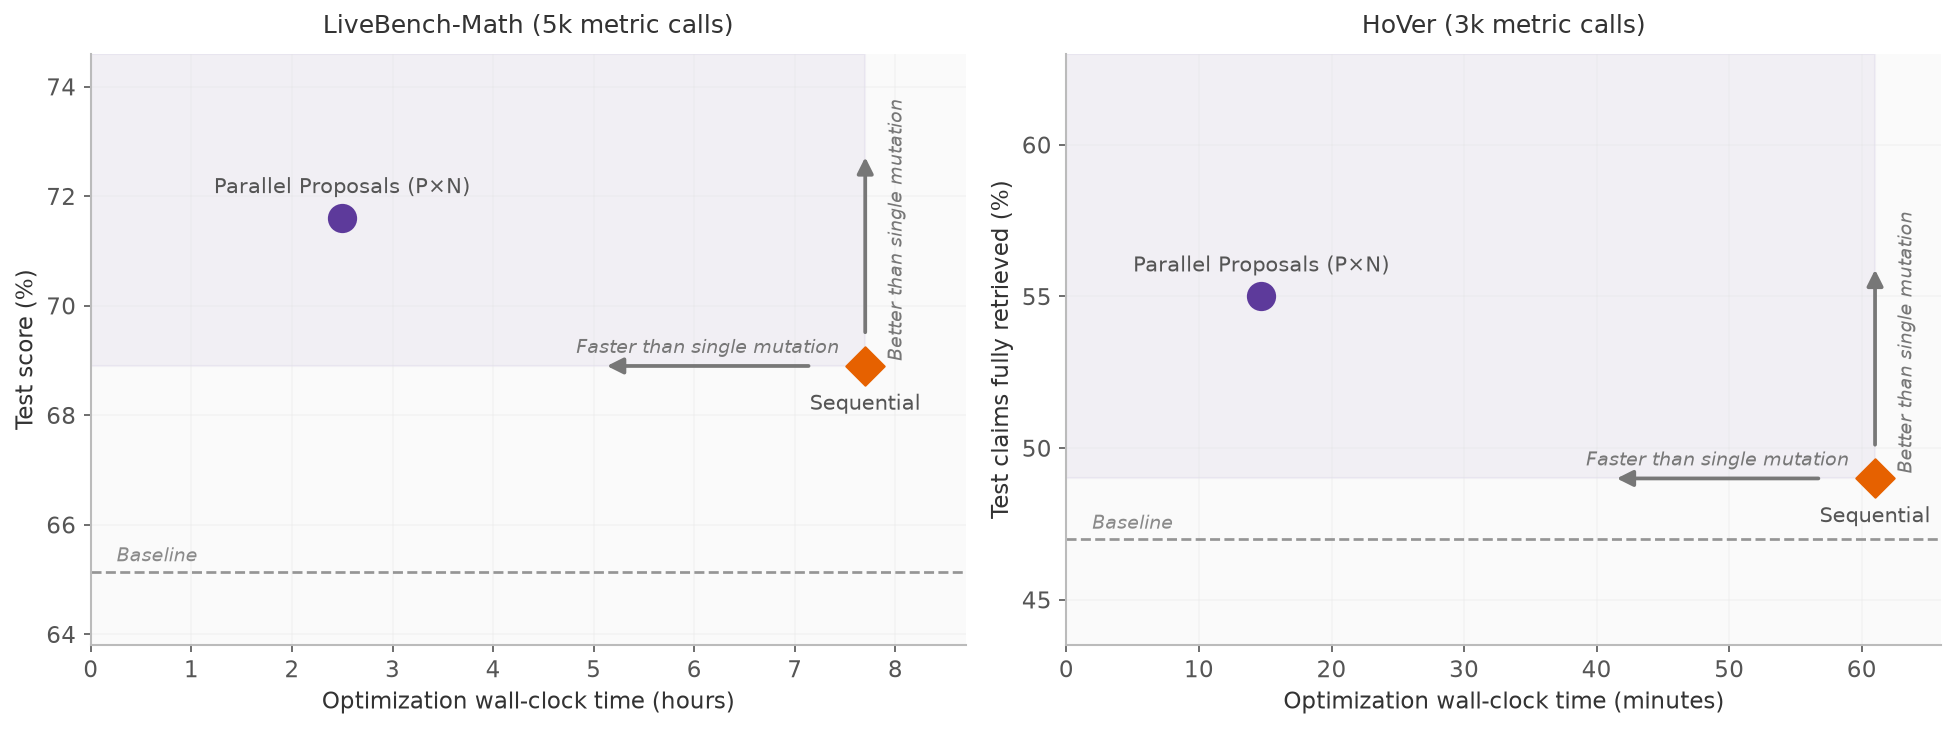
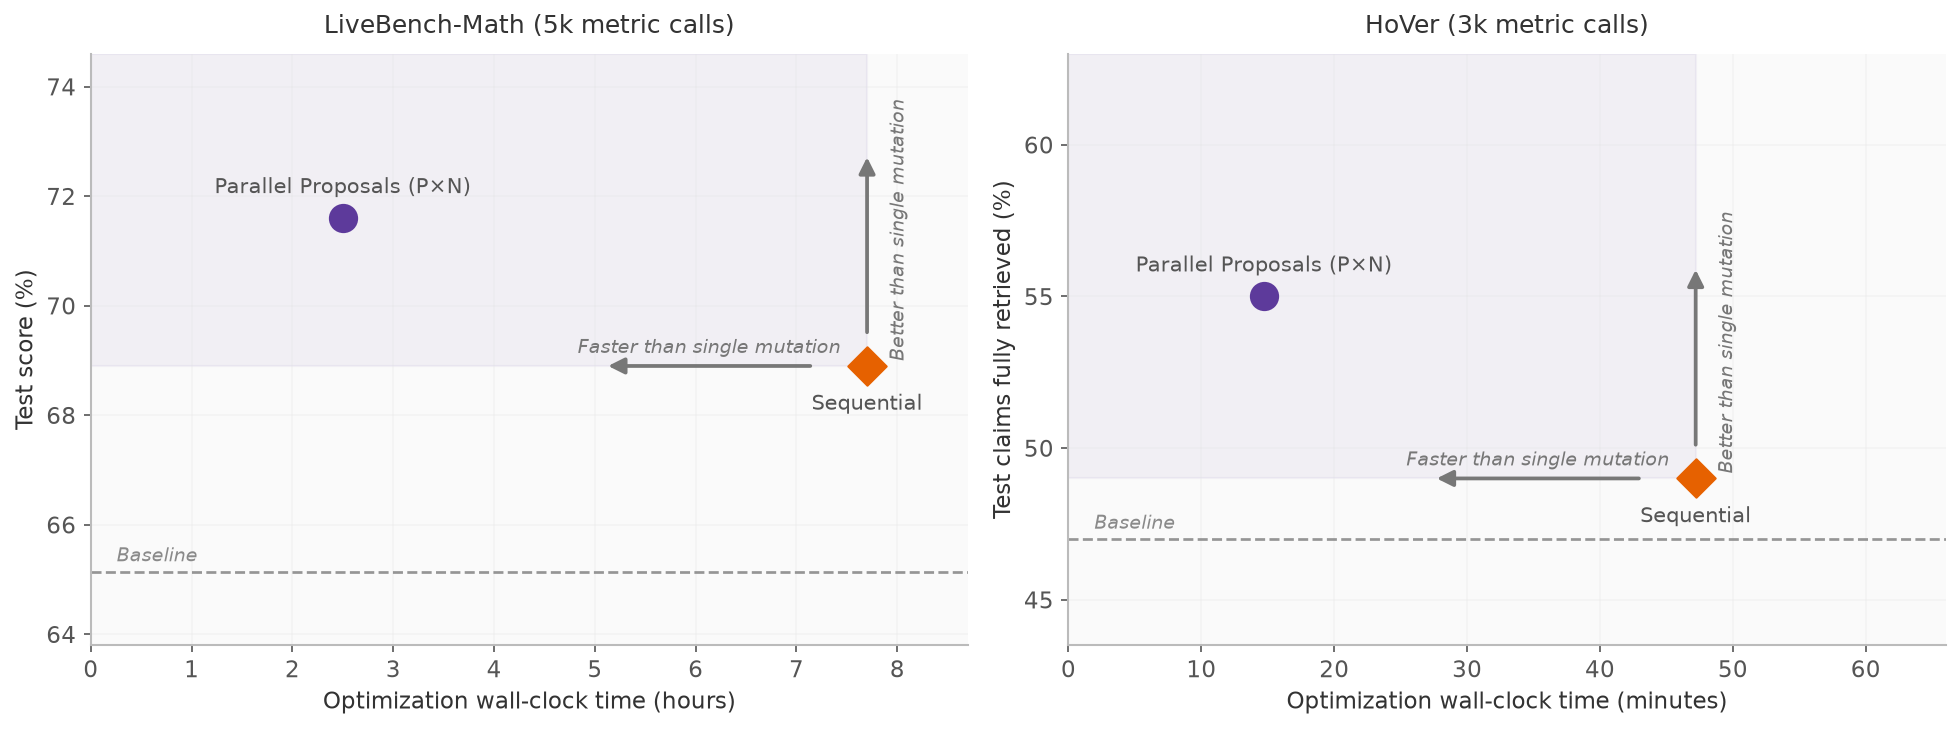
docs(blog): use the latest HoVer single-mutation run's runtime (47 min)

diff --git a/docs/docs/blog/posts/2026-06-22-parallel-proposals/index.md b/docs/docs/blog/posts/2026-06-22-parallel-proposals/index.md
@@ -26,7 +26,7 @@ citation_keywords: "text optimization, prompt optimization, program optimization
 # Batching the Optimization Loop: Parallel Proposals in GEPA
 
 <figure markdown="span">
-  ![Two scatter plots of held-out test performance against optimization wall-clock time. In each, a purple dot labeled Parallel Proposals (P×N) sits above and left of an orange diamond labeled Sequential, inside a shaded region of results that are both faster and better; a dashed line marks the unoptimized baseline, and two arrows from the diamond point up (Better than single mutation) and left (Faster than single mutation). LiveBench-Math: 71.6% in 2.5 hours against 68.9% in 7.7 hours. HoVer: 55.0% in 15 minutes against 49.0% in 61 minutes.](images/throughput.png){ style="width: 100%;" }
+  ![Two scatter plots of held-out test performance against optimization wall-clock time. In each, a purple dot labeled Parallel Proposals (P×N) sits above and left of an orange diamond labeled Sequential, inside a shaded region of results that are both faster and better; a dashed line marks the unoptimized baseline, and two arrows from the diamond point up (Better than single mutation) and left (Faster than single mutation). LiveBench-Math: 71.6% in 2.5 hours against 68.9% in 7.7 hours. HoVer: 55.0% in 15 minutes against 49.0% in 47 minutes.](images/throughput.png){ style="width: 100%;" }
   <figcaption>At the same metric-call budget, parallel proposals are faster and better than single mutation.</figcaption>
 </figure>
 
@@ -83,7 +83,7 @@ The measured runs follow this pattern. On LiveBench-Math, moving from single mut
 Two additional effects keep the speedup from scaling indefinitely with $k$. First, the reflection wave takes as long as its slowest concurrent call. Second, validating several accepted candidates at once takes longer on a fixed worker pool. In parallel-computing terms, our sweep is a strong-scaling experiment[^scaling]: the total work is fixed by the metric-call budget while the per-step parallelism grows, so the speedup is bounded by the parts of each step that stay sequential, in the spirit of Amdahl's law. In our measured setup, wall-clock time across the sweep improved by roughly 3 to 4× over single mutation before leveling off.
 
 <figure markdown="span">
-  ![Two dual-axis line charts across the nine settings from single to 8×2: an orange line with held-out test performance on the left axis, a purple line with optimization time on the right axis, and a dotted baseline. Time falls from 7.7 hours to about 2 on LiveBench-Math and from 61 to 14 minutes on HoVer, while test performance ranges from 66.7 to 72.1 on LiveBench-Math and from 49.0 to 60.0 on HoVer against single mutation's 68.9 and 49.0.](images/scaling_lines.png){ style="width: 100%;" }
+  ![Two dual-axis line charts across the nine settings from single to 8×2: an orange line with held-out test performance on the left axis, a purple line with optimization time on the right axis, and a dotted baseline. Time falls from 7.7 hours to about 2 on LiveBench-Math and from 47 to 14 minutes on HoVer, while test performance ranges from 66.7 to 72.1 on LiveBench-Math and from 49.0 to 60.0 on HoVer against single mutation's 68.9 and 49.0.](images/scaling_lines.png){ style="width: 100%;" }
   <figcaption>As the per-step width P·N scales up, runtime falls with diminishing returns, and several settings score higher than single mutation.</figcaption>
 </figure>
 
@@ -96,8 +96,8 @@ The validation-to-test drop on LiveBench-Math is an overfitting signal. Single m
 The plots below show how quality accumulates over each run's wall-clock time. Each line reports the best validation score found so far, and the star marks the held-out test score of the final selected candidate.
 
 <figure markdown="span">
-  ![Two pareto curves of best validation quality against runtime. Left, LiveBench-Math: single mutation climbs to 0.783 with a test star at 0.689, batch to 0.752 with a test star at 0.721. Right, HoVer: batch climbs to 0.727 validation recall in 21 minutes with a test star at 0.815, single mutation to 0.709 over 61 minutes with a test star at 0.762.](images/trajectories.png){ style="width: 100%;" }
-  <figcaption>Best validation quality against optimization time. On LiveBench-Math (left), single mutation wins on validation but parallel proposals win on test, and finish sooner. On HoVer (right), parallel proposals reach a higher validation recall in a third of the time.</figcaption>
+  ![Two pareto curves of best validation quality against runtime. Left, LiveBench-Math: single mutation climbs to 0.783 with a test star at 0.689, batch to 0.752 with a test star at 0.721. Right, HoVer: batch climbs to 0.727 validation recall in 21 minutes with a test star at 0.815, single mutation to 0.713 over 47 minutes with a test star at 0.760.](images/trajectories.png){ style="width: 100%;" }
+  <figcaption>Best validation quality against optimization time. On LiveBench-Math (left), single mutation wins on validation but parallel proposals win on test, and finish sooner. On HoVer (right), parallel proposals reach a higher validation recall in less than half the time.</figcaption>
 </figure>
 
 ### Dollar cost comparison
@@ -105,7 +105,7 @@ The plots below show how quality accumulates over each run's wall-clock time. Ea
 Parallel proposals cost slightly more than single mutation. On LiveBench-Math, its selected prompt, shown below, asks the solver to verify its results internally before answering, which increases output-token usage. On HoVer, a smaller share of the batched proposals passed the mini-batch screen, so the same metric-call budget accommodated more proposals (56 against 40), leading to slightly more LLM cost. Even so, parallel proposals delivered more validation quality per dollar early in both runs, and throughout the run on HoVer.
 
 <figure markdown="span">
-  ![Two pareto curves of best validation quality against dollar cost. Left, LiveBench-Math: single mutation reaches 0.783 validation for about $13; batch reaches 0.752 for about $16. Right, HoVer: batch jumps to 0.727 validation recall by $2.65 and ends at $15.34 with a test star at 0.815; single mutation climbs to 0.709 over $13.40 with a test star at 0.762.](images/pareto_cost.png){ style="width: 100%;" }
+  ![Two pareto curves of best validation quality against dollar cost. Left, LiveBench-Math: single mutation reaches 0.783 validation for about $13; batch reaches 0.752 for about $16. Right, HoVer: batch jumps to 0.727 validation recall by $2.65 and ends at $15.34 with a test star at 0.815; single mutation climbs to 0.709 over $13.40 with a test star at 0.760.](images/pareto_cost.png){ style="width: 100%;" }
   <figcaption>Best validation quality against LLM spend. On LiveBench-Math (left), parallel proposals cost somewhat more at the same metric-call budget ($16 against $13): averaged over each run's roughly 5,000 <code>gpt-4.1-mini</code> calls, the candidates the batched run evaluated used about 1,470 output tokens per call against 1,060. On HoVer (right), parallel proposals reached their selected program for $2.65, while single mutation spent most of its $14.21 to end at a lower validation recall.</figcaption>
 </figure>
 
